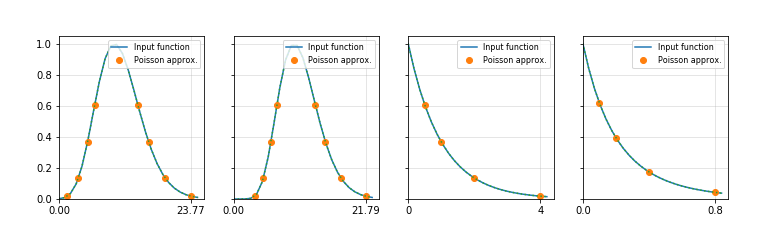
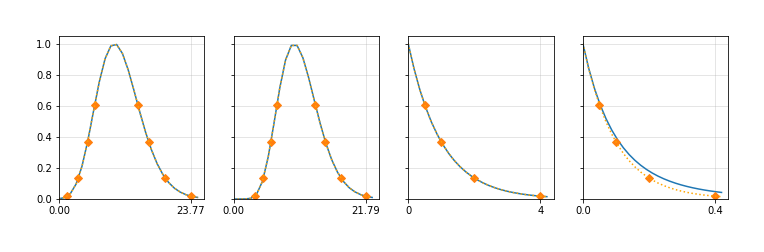
new attempt on figures

diff --git a/docs/poisson.html b/docs/poisson.html
@@ -242,45 +242,6 @@ pvalc : float
     {% raw %}
     
 <div class="cell border-box-sizing code_cell rendered">
-<div class="input">
-
-<div class="inner_cell">
-    <div class="input_area">
-<div class=" highlight hl-ipython3"><pre><span></span><span class="k">class</span> <span class="nc">Demo</span><span class="p">(</span><span class="n">Publisher</span><span class="p">):</span>
-    <span class="k">def</span> <span class="fm">__call__</span><span class="p">(</span><span class="bp">self</span><span class="p">):</span>
-        <span class="sd">&quot;&quot;&quot;</span>
-<span class="sd">        Test by fitting the same set of parameters;</span>
-<span class="sd">        </span>
-<span class="sd">        As with the `Poisson` test/demo, we use the following ($s_p, b$) pairs.</span>
-<span class="sd">        </span>
-<span class="sd">        {pars}</span>
-<span class="sd">        </span>
-<span class="sd">        The output:</span>
-<span class="sd">        {printout}</span>
-<span class="sd">        </span>
-<span class="sd">        And plots showing the input function, </span>
-<span class="sd">        and the points that were used for the evaluation. </span>
-<span class="sd">        {fig}</span>
-<span class="sd">        </span>
-<span class="sd">        Note: the above figure, number {fig.number}, was put into the `images` folder, but needs to </span>
-<span class="sd">        have a unique file name.</span>
-<span class="sd">        &quot;&quot;&quot;</span>
-        <span class="n">pars</span> <span class="o">=</span> <span class="p">[(</span><span class="mi">10</span><span class="p">,</span><span class="mi">5</span><span class="p">),</span> <span class="p">(</span><span class="mi">10</span><span class="p">,</span> <span class="mi">0</span><span class="p">),</span> <span class="p">(</span><span class="o">-</span><span class="mi">5</span><span class="p">,</span> <span class="mi">5</span><span class="p">),</span> <span class="p">(</span><span class="o">-</span><span class="mi">5</span><span class="p">,</span><span class="mi">1</span><span class="p">)]</span>
-        
-        <span class="n">fig</span><span class="p">,</span> <span class="n">axx</span> <span class="o">=</span> <span class="n">plt</span><span class="o">.</span><span class="n">subplots</span><span class="p">(</span><span class="mi">1</span><span class="p">,</span><span class="mi">4</span><span class="p">,</span> <span class="n">figsize</span><span class="o">=</span><span class="p">(</span><span class="mi">12</span><span class="p">,</span><span class="mi">3</span><span class="p">),</span> <span class="n">sharey</span><span class="o">=</span><span class="kc">True</span><span class="p">)</span>        
-        <span class="k">with</span> <span class="bp">self</span><span class="o">.</span><span class="n">capture_print</span><span class="p">()</span> <span class="k">as</span> <span class="n">printout</span><span class="p">:</span>
-            <span class="k">for</span> <span class="n">p</span><span class="p">,</span><span class="n">ax</span> <span class="ow">in</span> <span class="nb">zip</span><span class="p">(</span><span class="n">pars</span><span class="p">,</span> <span class="n">axx</span><span class="o">.</span><span class="n">flatten</span><span class="p">()</span> <span class="p">):</span>
-                <span class="n">pf</span> <span class="o">=</span> <span class="n">PoissonFitter</span><span class="p">(</span> <span class="n">Poisson</span><span class="p">([</span><span class="n">p</span><span class="p">[</span><span class="mi">0</span><span class="p">],</span> <span class="mf">1.0</span><span class="p">,</span> <span class="n">p</span><span class="p">[</span><span class="o">-</span><span class="mi">1</span><span class="p">]])</span> <span class="p">)</span>
-                <span class="nb">print</span><span class="p">(</span> <span class="sa">f</span><span class="s1">&#39;error: </span><span class="si">{</span><span class="n">pf</span><span class="o">.</span><span class="n">check</span><span class="p">()[</span><span class="mi">0</span><span class="p">]</span><span class="si">:</span><span class="s1">.1e</span><span class="si">}</span><span class="s1">, fit: </span><span class="si">{</span><span class="n">np</span><span class="o">.</span><span class="n">array</span><span class="p">(</span><span class="n">pf</span><span class="o">.</span><span class="n">fit</span><span class="p">())</span><span class="o">.</span><span class="n">round</span><span class="p">(</span><span class="mi">3</span><span class="p">)</span><span class="si">}</span><span class="s1">&#39;</span><span class="p">)</span>
-                <span class="n">pf</span><span class="o">.</span><span class="n">plot</span><span class="p">(</span><span class="n">ax</span><span class="o">=</span><span class="n">ax</span><span class="p">);</span>
-        <span class="n">fig</span><span class="o">.</span><span class="n">caption</span><span class="o">=</span><span class="kc">None</span>    
-        <span class="bp">self</span><span class="o">.</span><span class="n">publishme</span><span class="p">()</span>
-<span class="n">Demo</span><span class="p">()()</span>
-</pre></div>
-
-    </div>
-</div>
-</div>
 
 <div class="output_wrapper">
 <div class="output">
@@ -289,12 +250,15 @@ pvalc : float
 
 
 <div class="output_markdown rendered_html output_subarea ">
-<p>Test by fitting the same set of parameters;</p>
-<p>As with the <code>Poisson</code> test/demo, we use the following ($s_p, b$) pairs.</p>
-<p style="margin-left: 5%"><samp>[(10, 5), (10, 0), (-5, 5), (-5, 1)]</samp></p><p>The output:</p>
-<p style="margin-left: 5%"><pre>error: 2.3e-05, fit: [10.     1.     5.001]<br>error: 5.5e-04, fit: [ 9.997  1.    -0.   ]<br>error: 8.6e-13, fit: [-1.317  1.     1.317]<br>error: 3.9e-02, fit: [-4.771  1.033  0.986]<br></pre></p><p>And plots showing the input function, 
-and the points that were used for the evaluation.</p>
-<div class="jupydoc_fig"><a href="images/fig_01.png"<figure>   <img src="images/fig_01.png" alt="Figure 1 at images/fig_01.png" > </figure></a></div><p>Note: the above figure, number 1, was put into the <code>images</code> folder, but needs to 
+<h3 id="Usage-example">Usage example<a class="anchor-link" href="#Usage-example"> </a></h3><p>If <code>func</code> is a log-likelihood function, the parameterized fit object is returned by</p>
+
+<pre><code>fpois = PoissonFitter(func).poiss</code></pre>
+<p>Test by fitting to the same functions generated in the  <code>Poisson</code> test/demo,
+the  ($s_p, b$) pairs.</p>
+<p style="margin-left: 5%"><samp>[(10, 5), (10, 0), (-5, 5), (-5, 0.5)]</samp></p><p>The output shows the maximum error and the fit parameters for each test:</p>
+<p style="margin-left: 5%"><pre>error: 2.3e-05, fit: [10.     1.     5.001]<br>error: 5.5e-04, fit: [9.997 1.    0.   ]<br>error: 8.6e-13, fit: [-1.  1.  1.]<br>error: 4.5e-02, fit: [-1.     9.999  1.   ]<br></pre></p><p>Here are plots of the probability, created with <code>PoissonFitter.plot</code>, showing the input function, 
+and the points that were used for the evaluation, with the output function as a dashed line.</p>
+<div class="jupydoc_fig"><a href="images/fig_01.png"<figure>   <img src="images/fig_01.png" alt="Figure 1 at images/fig_01.png" width=600>  <figcaption><b>Figure 1</b>. Fit examples.</figcaption></figure></a></div><p>Note: the above figure, number 1, was put into the <code>images</code> folder, but needs to 
 have a unique file name.</p>
 
 </div>

diff --git a/docs/index.html b/docs/index.html
@@ -6,8 +6,8 @@ title: light_curves
 keywords: fastai
 sidebar: home_sidebar
 
-summary: "This is package being adapted to the `nbdev` environment from my code, from my <a href='https://github.com/tburnett/lat-timing'>github package lat-timing</a> to manage light curves of "
-description: "This is package being adapted to the `nbdev` environment from my code, from my <a href='https://github.com/tburnett/lat-timing'>github package lat-timing</a> to manage light curves of "
+summary: "This is package being adapted to the `nbdev` environment from my code, from my <a href='https://github.com/tburnett/jupydoc'>github package lat-timing](https://github.com/tburnett/lat-timing) to manage light curves of Fermi-LAT sources.  At the same time, I'm trying to use/adapt my [jupydoc</a> documention package."
+description: "This is package being adapted to the `nbdev` environment from my code, from my <a href='https://github.com/tburnett/jupydoc'>github package lat-timing](https://github.com/tburnett/lat-timing) to manage light curves of Fermi-LAT sources.  At the same time, I'm trying to use/adapt my [jupydoc</a> documention package."
 nb_path: "index.ipynb"
 ---
 <!--

diff --git a/light_curves/poisson.py b/light_curves/poisson.py
@@ -232,7 +232,7 @@ class PoissonFitter(object):
                 a,b = self.find_delta(delta, scale, xtol=tol*1e-2)
                 dom.add(a); dom.add(b)
             self.dom = np.array(sorted(list(dom)))
-            self.fit()
+            self._fit()
         self.maxdev=self.check(tol)[0]
 
     def __repr__(self):
@@ -289,7 +289,7 @@ class PoissonFitter(object):
             raise Exception(msg)
         return (s_low,s_high)
 
-    def fit(self, mu=30, beta=5):
+    def _fit(self, mu=30, beta=5):
         """Do the fit, return parameters for a Poisson constructor
         mu, beta: initial parameters for the fit if the peak is positive
         """
@@ -337,7 +337,7 @@ class PoissonFitter(object):
             raise Exception(f'PoissonFitter: max dev= {t:.3f} > tol= {tol}. (wprime={self.wprime:.2f})' )
         return t, deltas
 
-    def plot(self, ax=None, xticks=True ):
+    def plot(self, ax=None, xticks=True, legend=True ):
         """Return a figure showing the fit"""
         import matplotlib.pyplot as plt
         xp = self.dom
@@ -347,9 +347,9 @@ class PoissonFitter(object):
         else: fig = ax.figure
         pfmax = self(self.smax)
         ax.plot(x, np.exp(self(x)-pfmax), '-', label='Input function')
-        ax.plot(xp, np.exp(self._poiss(xp)), 'o', label='Poisson approx.')
-        ax.plot(x, np.exp(self._poiss(x)), ':')
-        ax.legend(loc='upper right', prop=dict(size=8) )
+        ax.plot(xp, np.exp(self._poiss(xp)), 'D', label='Poisson approx.')
+        ax.plot(x, np.exp(self._poiss(x)), ':', color='orange')
+        if legend: ax.legend(loc='upper right', prop=dict(size=8) )
         ax.set(xlim=(0,None), ylim=(0,1.05))
         if xticks:
             ax.set_xticks([0, xp[-1]])

diff --git a/README.md b/README.md
@@ -1,3 +1,3 @@
 # light_curves
-> This is package being adapted to the `nbdev` environment from my code, from my <a href='https://github.com/tburnett/lat-timing'>github package lat-timing</a> to manage light curves of 
+> This is package being adapted to the `nbdev` environment from my code, from my <a href='https://github.com/tburnett/jupydoc'>github package lat-timing](https://github.com/tburnett/lat-timing) to manage light curves of Fermi-LAT sources.  At the same time, I'm trying to use/adapt my [jupydoc</a> documention package.
 
